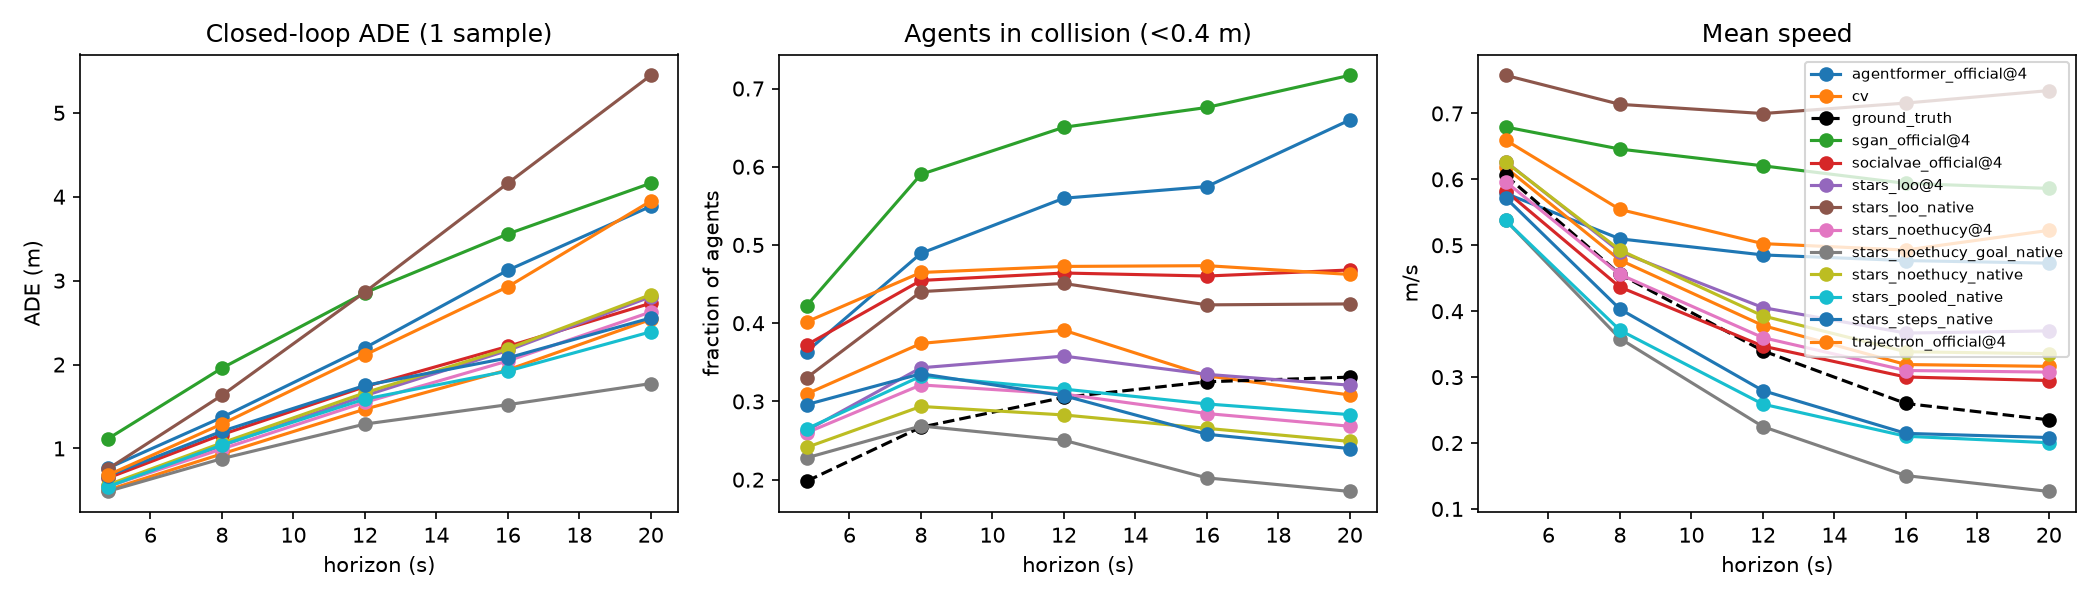
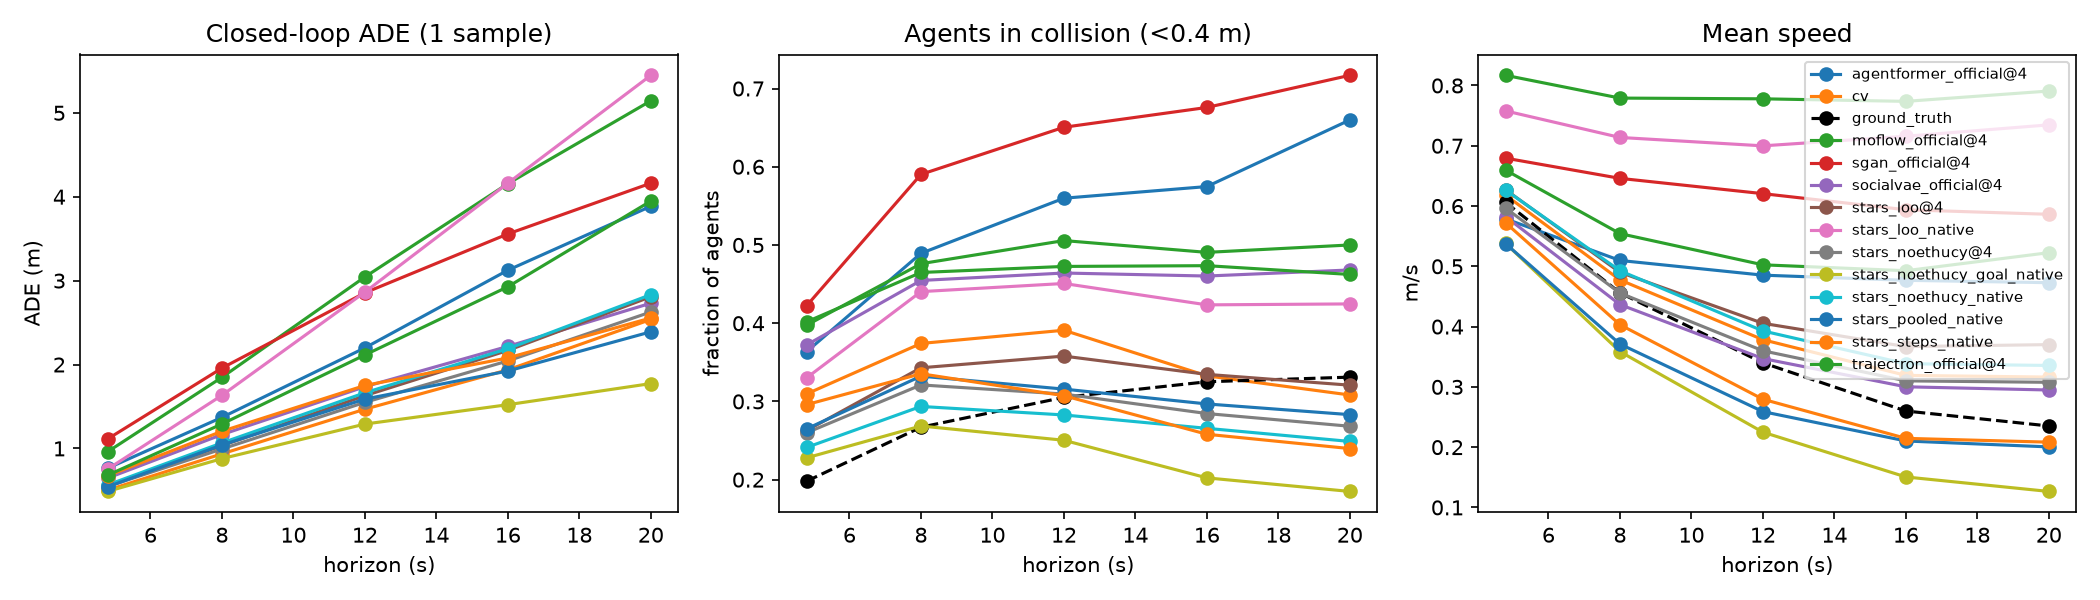
Forecast benchmark: add MoFlow closed-loop rollouts (20 s) to results
Claude-Session: https://claude.ai/code/session_012oeNvwPSTEAtdJdafyEtUh

diff --git a/results/forecasting_2026-11-16_89f5e72/report.md b/results/forecasting_2026-11-16_89f5e72/report.md
@@ -10,7 +10,7 @@ end. Every number: `metrics.csv` / `metrics.json` / `closed_loop_metrics.csv`; a
 * **Single-sample accuracy.** The mean-over-samples ADE of STARS CVAE (0.56) is the best of the learned models (SocialVAE 0.66, T++ 0.73, SGAN 0.86, MoFlow 0.99, AgentFormer > 1) and close to CV (0.53): the best-of-20 leaders buy their minADE with widely spread samples.
 * **Collisions between predicted agents.** On ETH/UCY, 8.1 % of real agents come within 0.4 m of another (0.5 % within 0.2 m). STARS CVAE predictions do so for 14 % (5 % within 0.2 m) -- the fewest of all methods (CV 18 %, MoFlow 20 %, AgentFormer 20 %, SocialVAE 23 %, T++ 24 %, SGAN 24 %), but still well above the data, especially at 0.2 m. STARS' diffusion decoders are the worst (28-30 %). On our datasets the ordering is the same; STARS matches the GT contact rate on STEPS (5.4 % vs 5.8 %) and over-predicts contacts most on grand_central / ATC.
 * **Our datasets.** STARS pooled (w/ or w/o ETH/UCY) is best or tied-best of the non-oracle models on every dataset except STEPS (all methods ~0.07 minADE) and ucy (STARS pooled 0.19/0.39 vs MoFlow-STEPS 0.20/0.37).
-* **Closed loop (up to 20 s).** Receding-horizon STARS (no-ETH/UCY, 1.6 s steps) has the lowest ADE among learned models at every horizon (2.63 m at 20 s; SocialVAE 2.73, T++ 3.95, AgentFormer 3.89, SGAN 4.16; CV 2.54) and the lowest collision rate, close to GT (0.27 vs 0.33 at 20 s). STARS pooled native (1-step loop) is best overall at 20 s (2.39 m). The LOO fine-tuned STARS drifts in its native 1-step loop (speeds rise to 0.74 m/s vs 0.24 GT): fine-tuning used only the open-loop loss. MoFlow's closed loop is still running (pending row).
+* **Closed loop (up to 20 s).** Receding-horizon STARS (no-ETH/UCY, 1.6 s steps) has the lowest ADE among learned models at every horizon (2.63 m at 20 s; SocialVAE 2.73, AgentFormer 3.89, T++ 3.95, SGAN 4.16, MoFlow 5.14; CV 2.54) and the lowest collision rate, close to GT (0.27 vs 0.33 at 20 s). STARS pooled native (1-step loop) is best overall at 20 s (2.39 m). The LOO fine-tuned STARS drifts in its native 1-step loop (speeds rise to 0.74 m/s vs 0.24 GT): fine-tuning used only the open-loop loss. MoFlow, the best open-loop baseline, drifts most in closed loop (5.14 m at 20 s, 50% of agents in contact, speed 0.79 vs 0.24 m/s GT).
 
 ## Protocol
 
@@ -269,6 +269,7 @@ pair agents' k-th samples arbitrarily.
 | agentformer_official@4 | 0.76/1.67 | 1.37/3.08 | 2.20/4.87 | 3.12/6.78 | 3.89/8.08 |
 | cv | 0.50/1.10 | 0.94/2.10 | 1.47/3.32 | 1.94/4.32 | 2.54/5.48 |
 | ground_truth | 0.00/0.00 | 0.00/0.00 | 0.00/0.00 | 0.00/0.00 | 0.00/0.00 |
+| moflow_official@4 | 0.96/2.03 | 1.85/4.01 | 3.04/6.35 | 4.16/8.09 | 5.14/9.60 |
 | sgan_official@4 | 1.11/2.28 | 1.96/4.07 | 2.86/5.74 | 3.56/6.67 | 4.16/7.15 |
 | socialvae_official@4 | 0.65/1.39 | 1.17/2.56 | 1.74/3.76 | 2.22/4.75 | 2.73/5.66 |
 | stars_loo@4 | 0.55/1.19 | 1.03/2.29 | 1.63/3.55 | 2.17/4.67 | 2.81/5.99 |
@@ -283,6 +284,7 @@ pair agents' k-th samples arbitrarily.
 | agentformer_official@4 | 0.364 | 0.489 | 0.560 | 0.575 | 0.660 |
 | cv | 0.310 | 0.374 | 0.391 | 0.333 | 0.308 |
 | ground_truth | 0.198 | 0.267 | 0.305 | 0.325 | 0.331 |
+| moflow_official@4 | 0.397 | 0.476 | 0.506 | 0.491 | 0.500 |
 | sgan_official@4 | 0.422 | 0.590 | 0.650 | 0.676 | 0.717 |
 | socialvae_official@4 | 0.372 | 0.455 | 0.464 | 0.460 | 0.468 |
 | stars_loo@4 | 0.263 | 0.343 | 0.358 | 0.335 | 0.321 |
@@ -297,6 +299,7 @@ pair agents' k-th samples arbitrarily.
 | agentformer_official@4 | 0.579 | 0.510 | 0.485 | 0.477 | 0.473 |
 | cv | 0.618 | 0.477 | 0.378 | 0.319 | 0.316 |
 | ground_truth | 0.606 | 0.456 | 0.340 | 0.260 | 0.235 |
+| moflow_official@4 | 0.817 | 0.779 | 0.778 | 0.774 | 0.791 |
 | sgan_official@4 | 0.679 | 0.646 | 0.621 | 0.594 | 0.586 |
 | socialvae_official@4 | 0.582 | 0.437 | 0.347 | 0.300 | 0.295 |
 | stars_loo@4 | 0.627 | 0.490 | 0.405 | 0.367 | 0.370 |

diff --git a/results/forecasting_2026-11-16_89f5e72/tables.md b/results/forecasting_2026-11-16_89f5e72/tables.md
@@ -217,6 +217,7 @@
 | agentformer_official@4 | 0.76/1.67 | 1.37/3.08 | 2.20/4.87 | 3.12/6.78 | 3.89/8.08 |
 | cv | 0.50/1.10 | 0.94/2.10 | 1.47/3.32 | 1.94/4.32 | 2.54/5.48 |
 | ground_truth | 0.00/0.00 | 0.00/0.00 | 0.00/0.00 | 0.00/0.00 | 0.00/0.00 |
+| moflow_official@4 | 0.96/2.03 | 1.85/4.01 | 3.04/6.35 | 4.16/8.09 | 5.14/9.60 |
 | sgan_official@4 | 1.11/2.28 | 1.96/4.07 | 2.86/5.74 | 3.56/6.67 | 4.16/7.15 |
 | socialvae_official@4 | 0.65/1.39 | 1.17/2.56 | 1.74/3.76 | 2.22/4.75 | 2.73/5.66 |
 | stars_loo@4 | 0.55/1.19 | 1.03/2.29 | 1.63/3.55 | 2.17/4.67 | 2.81/5.99 |
@@ -231,6 +232,7 @@
 | agentformer_official@4 | 0.364 | 0.489 | 0.560 | 0.575 | 0.660 |
 | cv | 0.310 | 0.374 | 0.391 | 0.333 | 0.308 |
 | ground_truth | 0.198 | 0.267 | 0.305 | 0.325 | 0.331 |
+| moflow_official@4 | 0.397 | 0.476 | 0.506 | 0.491 | 0.500 |
 | sgan_official@4 | 0.422 | 0.590 | 0.650 | 0.676 | 0.717 |
 | socialvae_official@4 | 0.372 | 0.455 | 0.464 | 0.460 | 0.468 |
 | stars_loo@4 | 0.263 | 0.343 | 0.358 | 0.335 | 0.321 |
@@ -245,6 +247,7 @@
 | agentformer_official@4 | 0.579 | 0.510 | 0.485 | 0.477 | 0.473 |
 | cv | 0.618 | 0.477 | 0.378 | 0.319 | 0.316 |
 | ground_truth | 0.606 | 0.456 | 0.340 | 0.260 | 0.235 |
+| moflow_official@4 | 0.817 | 0.779 | 0.778 | 0.774 | 0.791 |
 | sgan_official@4 | 0.679 | 0.646 | 0.621 | 0.594 | 0.586 |
 | socialvae_official@4 | 0.582 | 0.437 | 0.347 | 0.300 | 0.295 |
 | stars_loo@4 | 0.627 | 0.490 | 0.405 | 0.367 | 0.370 |
